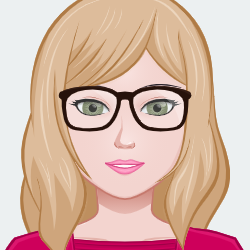
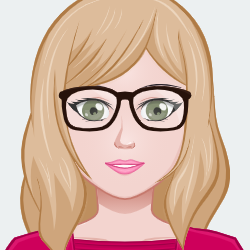
change pictures

Changed region(s): [[0.532, 0.364, 0.728, 0.504], [0.252, 0.364, 0.448, 0.504]]

diff --git a/index.html b/index.html
@@ -71,7 +71,7 @@
 						<!-- slide 5 -->
 						<div class="slide mum">
 							<div class="slide-img">
-								<img src="images/mum2.png" alt="me-mumsy" class="mum" />
+								<img src="images/mum.png" alt="me-mumsy" class="mum" />
 							</div>
 							<div class="slide-img-text mum"><p>Mum</p></div>
 						</div>
